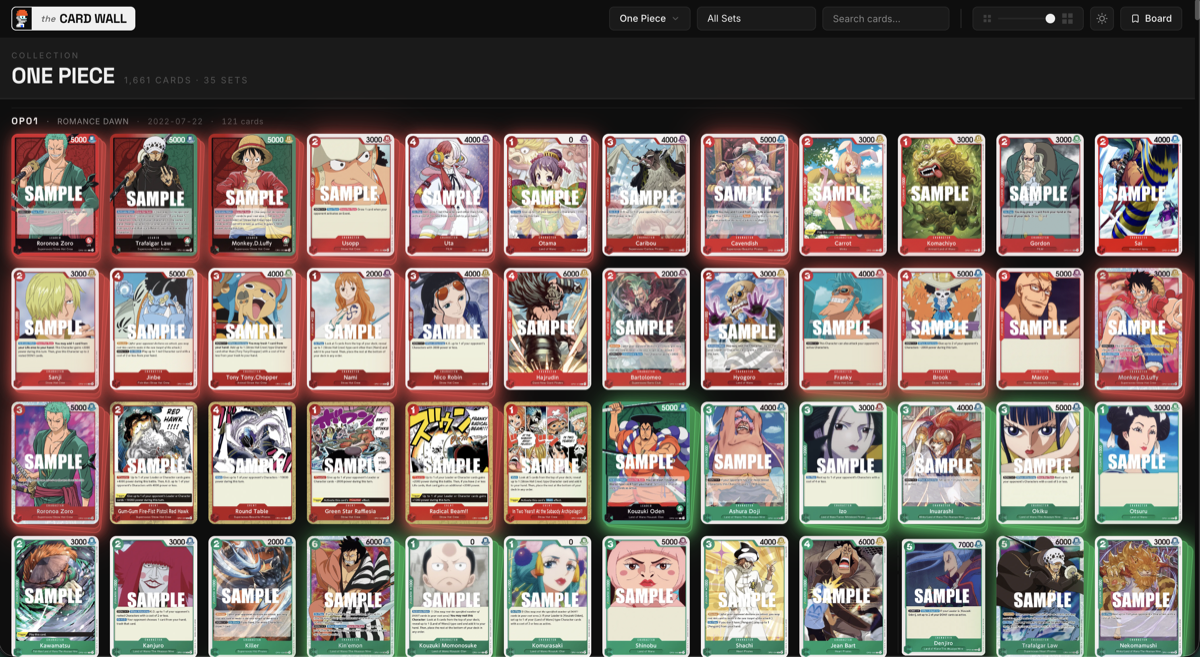
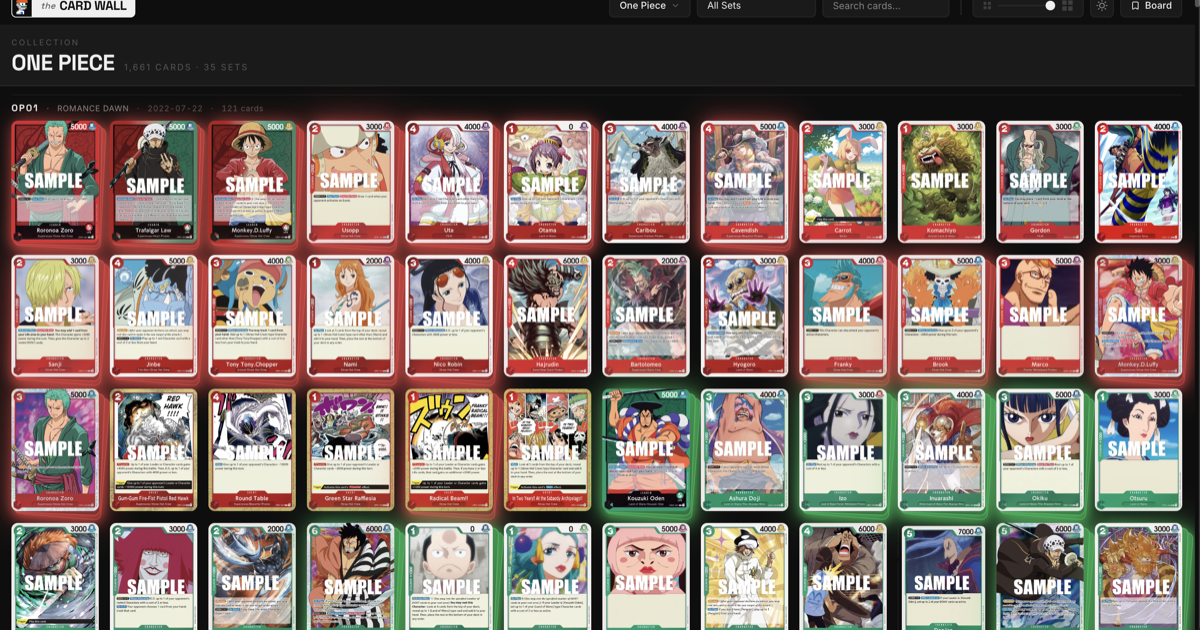
fix(og): resize OG image to spec 1200x630 (was 1200x657)
X/Twitter prefer 2:1 ratio; the extra 27px caused minor crop in some clients.
Also helps if X had cached a malformed dimension previously.

diff --git a/src/app/layout.tsx b/src/app/layout.tsx
@@ -26,7 +26,7 @@ export const metadata: Metadata = {
     description: "Find something you didn't know existed.",
     url: 'https://thecardwall.com',
     siteName: 'The Card Wall',
-    images: [{ url: '/images/og.png', width: 1200, height: 657, alt: 'The Card Wall' }],
+    images: [{ url: '/images/og.png', width: 1200, height: 630, alt: 'The Card Wall' }],
     type: 'website',
   },
   twitter: {
